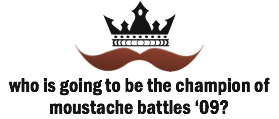
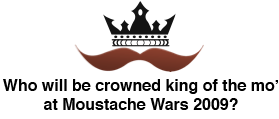
minor tweaks

Changed region(s): [[0.0, 0.6555, 1.0, 0.958]]

diff --git a/templates/base.html b/templates/base.html
@@ -1,7 +1,7 @@
 <!DOCTYPE HTML>
 <html lang="en-GB">
 <head>
-    <title>{% block pagetitle %}Moustache Battles{% endblock %}</title>
+    <title>{% block pagetitle %}Moustache Wars{% endblock %}</title>
     <meta charset="UTF-8">
     <link rel="stylesheet" type="text/css" href="/stylesheets/reset.css" media="all">
     <link rel="stylesheet" type="text/css" href="/stylesheets/base.css" media="all">
@@ -9,8 +9,7 @@
 <body>
   <div id="header" class="container_16">
     <div class="grid_16" style="text-align: center;">
-      <!--><img src="/images/bigtache.png" alt="Moustache Wars" title="Moustache Wars" width="800" />-->
-      <a href="/" style="text-decoration: none;"><h1>Moustache Battles</h1><img src="/images/top.png" alt="Moustache Battles" title="Moustache Battles" border="0" /></a>
+      <a href="/" style="text-decoration: none;"><h1>Moustache Wars</h1><img src="/images/top.png" alt="Moustache Battles" title="Moustache Battles" border="0" /></a>
     </div>
     <div class="clear"></div>
   </div>
@@ -20,10 +19,9 @@
     {% endblock %}
   </div>
   
-  <div id="foot" class="container_16"
+  <div id="foot" class="container_16">
     <div id="footer" class="grid_16">
-        <p><a href="http://twitter.com/moustachewars">Moustache Battles</a> is a kickass project by <a href="http://twitter.com/hasanv">Hasan Veldstra</a>, <a href="http://twitter.com/smcllns">Sam Collins</a> &amp; <a href="http://twitter.com/philip_roberts">Philip Roberts</a>.</p>
-        <!--><p>Moustache Wars has been developed in aid of <a href="http://uk.movember.com/">Movember</a> and you should probably go and <a href="http://uk.movember.com/donate/">donate</a>!</p>-->
+        <p><a href="http://twitter.com/moustachewars">Moustache Wars</a> is a kickass project by <a href="http://twitter.com/hasanv">Hasan Veldstra</a>, <a href="http://twitter.com/smcllns">Sam Collins</a> &amp; <a href="http://twitter.com/philip_roberts">Philip Roberts</a>.</p>
     </div>
     <div class="clear"></div>
   </div>

diff --git a/templates/index.html b/templates/index.html
@@ -23,14 +23,14 @@
         <div class="clear"></div>
         
         <div class="grid_6 valign" style="margin: 40px 0 40px 0; text-align: center;">
-          <img src="/images/king.png" alt="Who is going to be the champion of moustache battles 09?" title="Who is going to be the champion of moustache battles 09?" /><br /><br />
+          <img src="/images/king.png" alt="Who is going to be the champion of moustache Wars 2009?" title="Who is going to be the champion of moustache wars 2009?" /><br /><br />
           <a href="/tashwin">see the Top 10 contenders</a><br/>
           <a href="/tashfail">and the Bottom 10</a>
         </div>
         
         <div class="grid_10 valign" style="margin: 40px 0 40px 0;">
-          <p><strong>Think you got what it takes?</strong> Post your tash on Twitter with a #movember tag, and we'll automatically pull it in within 30 minutes or so.</p>
-          <p><strong>Find your profile at:<br/></strong> http://moustachewars.appspot.com/profile/&lt;<b>your twitter username here</b>&gt;</p>
+          <p><strong>Think you've got what it takes?</strong> Post your tash on Twitter with a #movember tag, and we'll automatically pull it in within 30 minutes or so.</p>
+          <p><strong>Find your profile at:<br/></strong> http://moustachewars.appspot.com/profile/&lt;your twitter username here&gt;</p>
           <p><strong>Movember</strong> (the month formerly known as November) is a moustache growing charity event held during November each year that raises funds and awareness for men's health. <a href="http://www.movember.com/">Visit the site.</a></p>
           
           <a name="fb_share" type="button_count" share_url="http://moustachewars.appspot.com" href="http://www.facebook.com/sharer.php">Share Moustache Battles on Facebook!</a>

diff --git a/main.py b/main.py
@@ -28,17 +28,6 @@ class BasicPage(webapp.RequestHandler):
         path = os.path.join(os.path.dirname(__file__), 'templates/'+template_file)
         self.response.out.write(template.render(path, template_values))
 
-# class TMP(webapp.RequestHandler):
-#     def get(self):
-#         offset = int(self.request.get('off'))
-#         tashes = Moustache.all().fetch(50,offset)
-#         
-#         for tash in tashes:
-#             the_image = images.resize(tash.image, width=340, height=340)
-#             tash.image = the_image
-#             tash.put()
-#             self.response.out.write(tash.name)
-
 class MainPage(BasicPage):
     template_file = 'index.html'
     def get(self):
@@ -288,8 +277,6 @@ application = webapp.WSGIApplication(
                                       ('/grabtwitter', GrabTwitter),
                                       ('/profile/(.*)', Profile),
                                       ('/tp/(.*)', GetByTwitpic),
-                                      ('/cnt', CountVote),
-                                      #('/tmp', TMP),
                                       # Logins
                                       ('/oauth/(.*)/(.*)', OAuthHandler)
                                      ],
